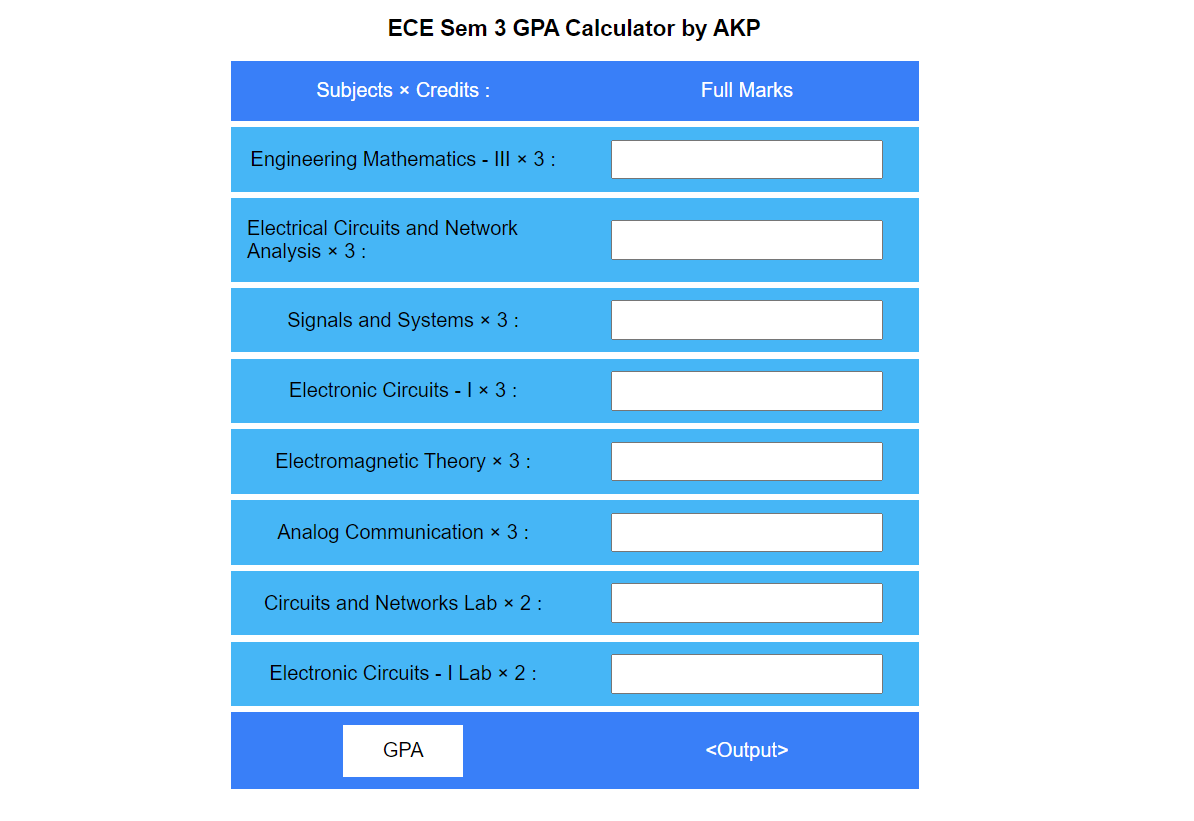
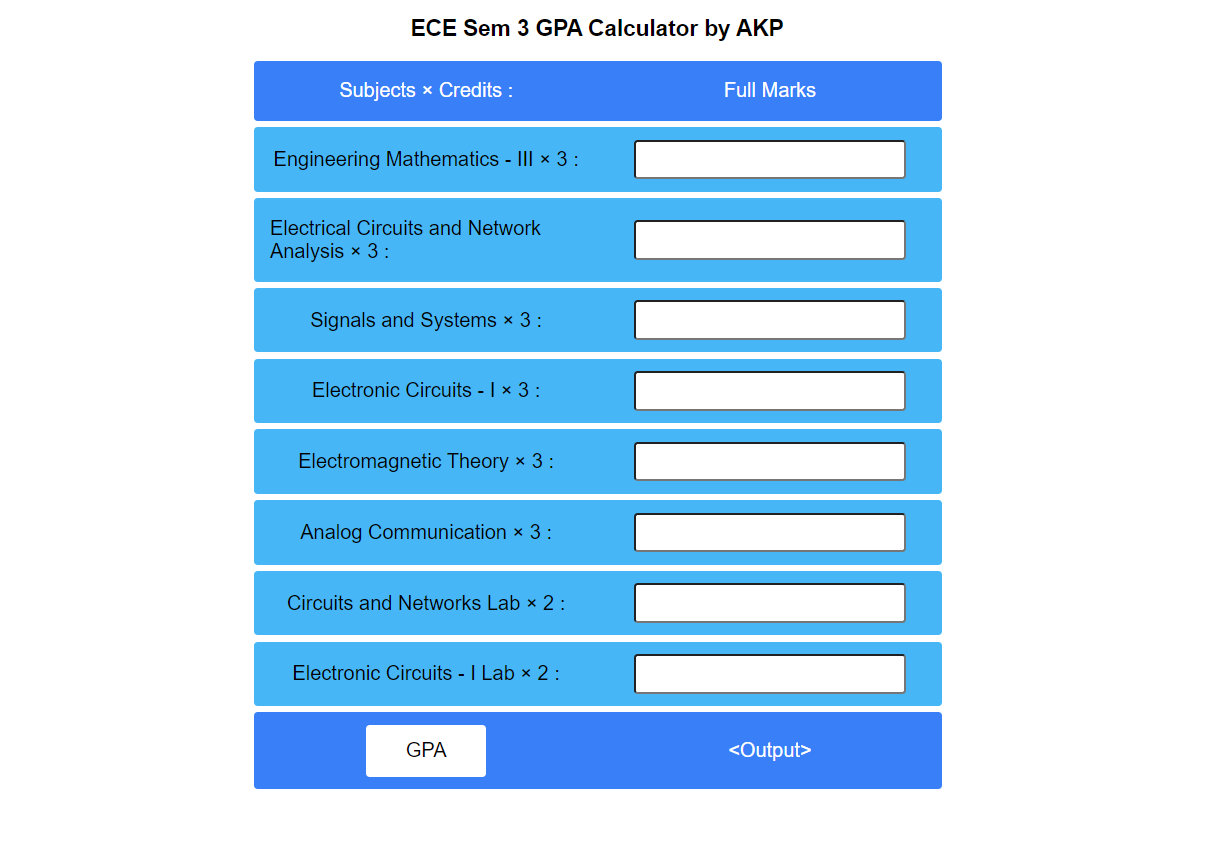
Few Fixes

Changed region(s): [[0.1859, 0.0609, 0.7747, 0.9744], [0.3099, 0.0, 0.6508, 0.0609]]

diff --git a/ECE Sem 3 Result Calculator/style.css b/ECE Sem 3 Result Calculator/style.css
@@ -18,14 +18,7 @@
     margin: 5px auto;
     justify-content: center;
     align-items: center;
-}
-
-.buts{
-    display: grid;
-    max-width: 250px;
-    margin: 5px auto;
-    background-color: var(--col);
-    grid-template-columns: 1fr 1fr 1fr 1fr 1fr;
+    border-radius: 3px;
 }
 
 
@@ -34,9 +27,8 @@ label, button{
     max-width: 250px;
     margin: 10px auto;
     padding: 5px 10px;
+    border-radius: 3px;
 }
-
-
 
 button{
     padding: 10px 30px;
